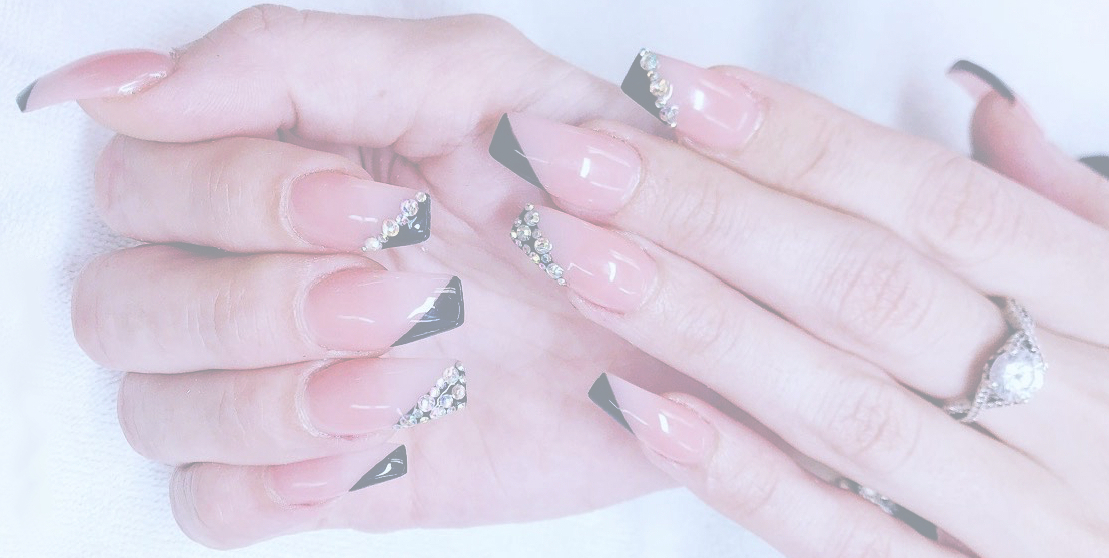
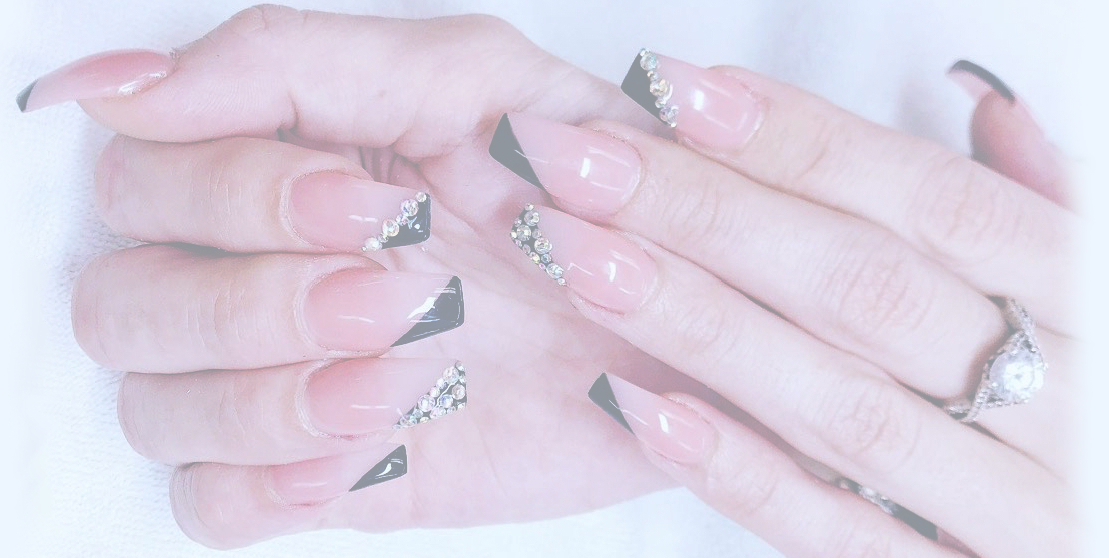
completed

diff --git a/CSS/style.css b/CSS/style.css
@@ -206,7 +206,12 @@ div #tableRow {
 }
 
 #pinknails {
-    margin-top: -7px;
+    display: flex;
+    justify-content: center;
+}
+
+#pinknails img {
+    width: auto;
 }
 
 #section11 {
@@ -628,7 +633,7 @@ header .burger {
     margin-right: 20px;
     cursor: pointer;
 }
-*/
+
 
 #pinknails h1 {
     margin-left: 110px;
@@ -639,6 +644,7 @@ header .burger {
     margin-left: 80px;
     margin-top: 430px;
 }
+*/
 
 .centered {
     position: absolute;

diff --git a/index.html b/index.html
@@ -90,7 +90,7 @@
     -->
     
     <div id="pinknails">
-        <img src="./Images/IMG_3043.jpg" width="1459" height="808" alt="Pink Nails">
+        <img src="./Images/IMG_3043.png" width="1209" height="658" alt="Pink Nails">
         <div class="centered">Sexy Nails</div>
         <div class="centered2">SCARBOROUGH NAIL SALON</div>
     </div>
